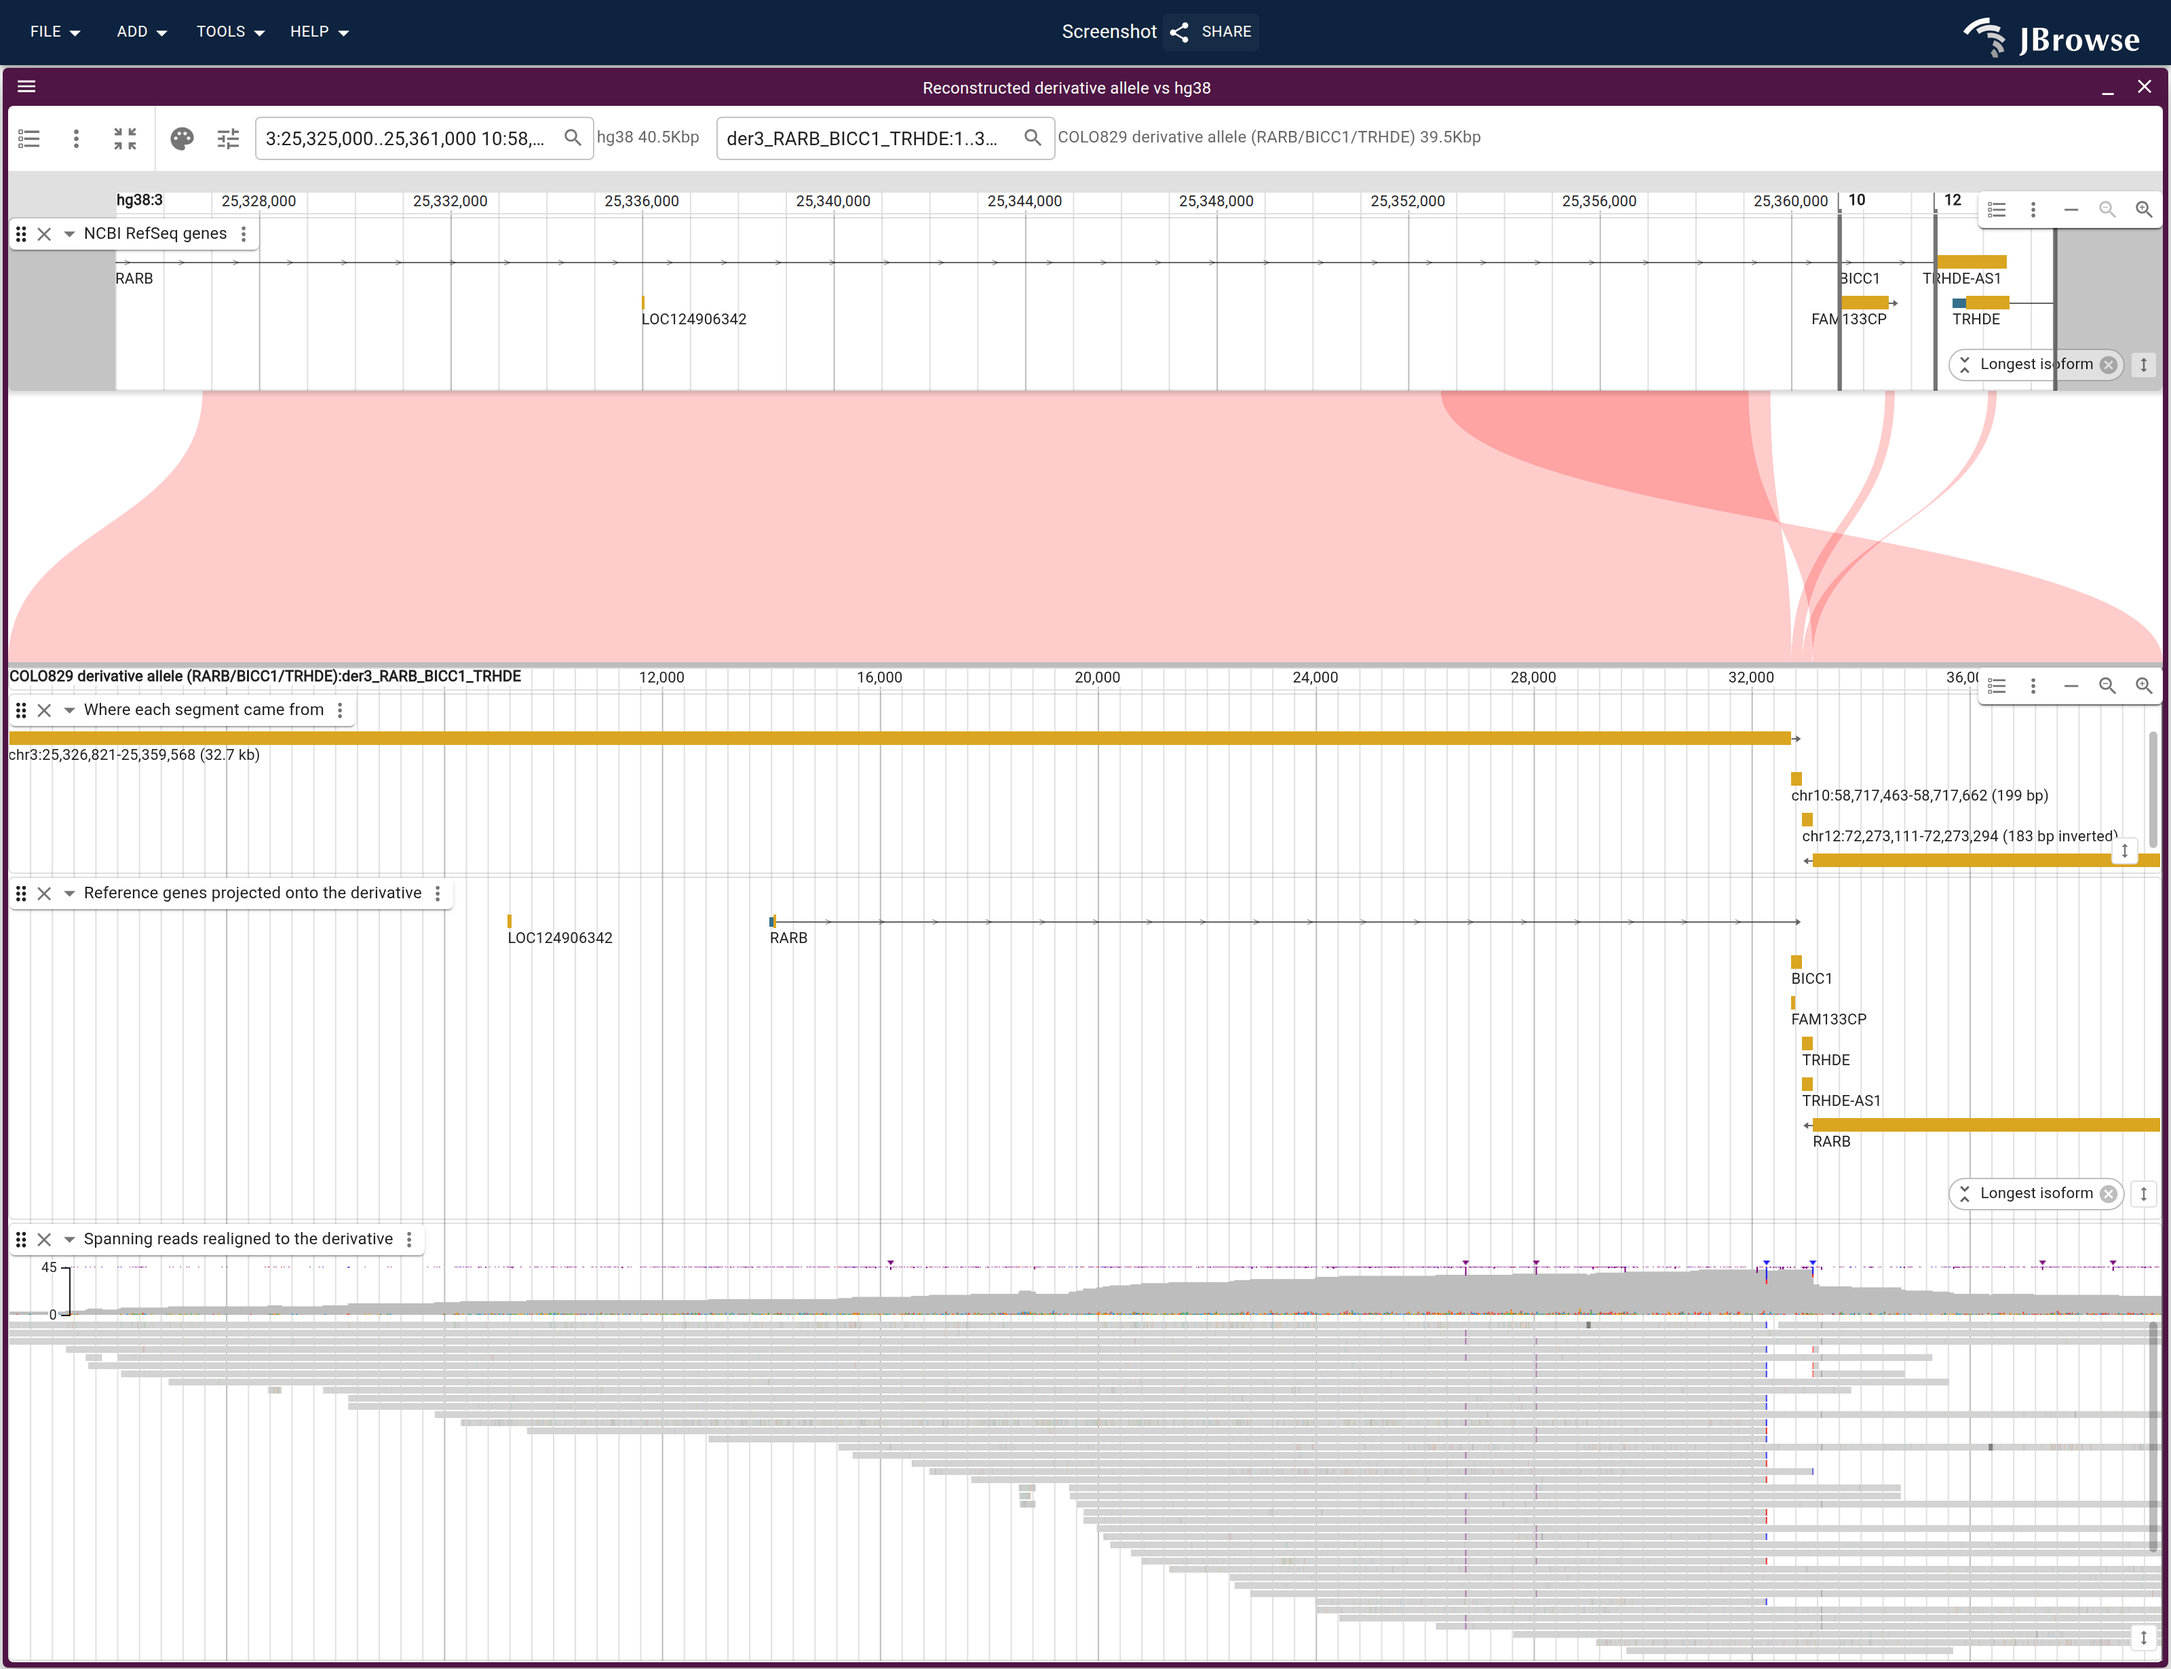
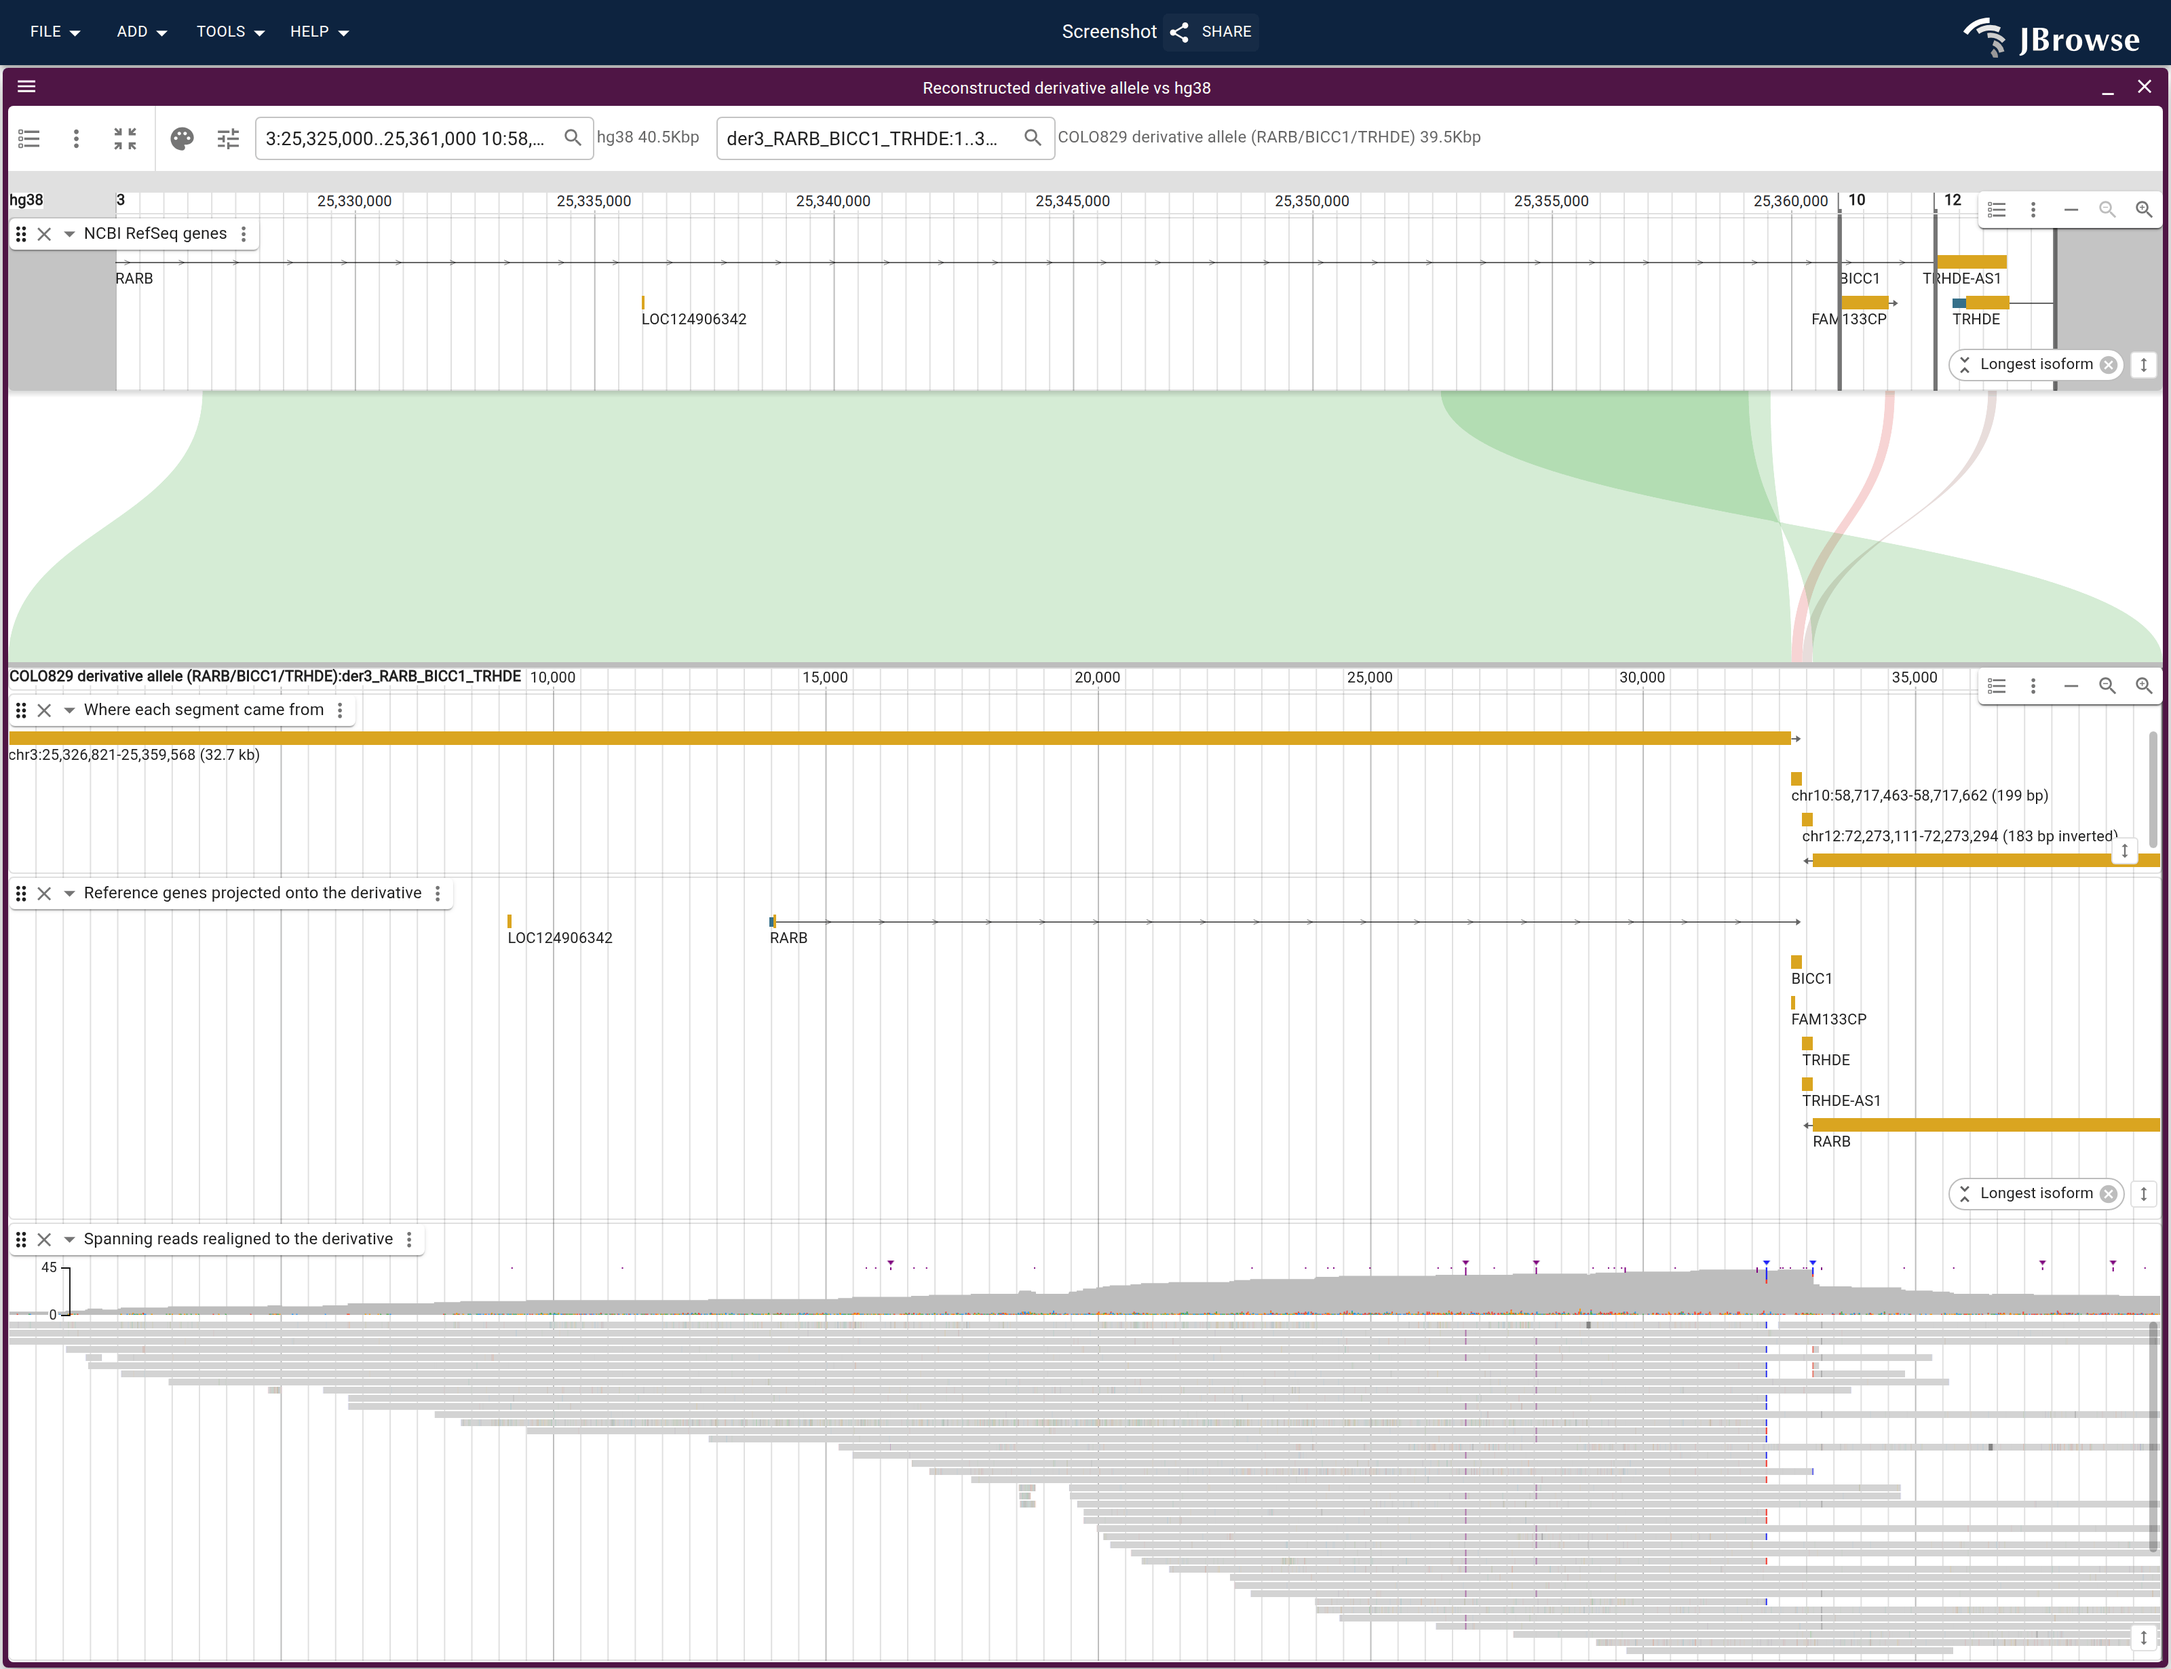
docs(cancer_sv): colour the derivative's ribbons by the chromosome they came from
"good figure, any other ways to make this even more compelling?"

Every ribbon drew in the same default pink, so a composition of three reference
loci read as one wedge with the two templated inserts as slivers of the same
thing. `colorBy: 'reference'` keys the colour on the anchor assembly's own
refName order — hg38, the topmost of the two rows — so the chr3 arm, the chr10
insert and the chr12 insert each get their own, and the ribbons say what the
"Where each segment came from" lane below says in words.

Only this figure: its zoomed sibling draws the same ribbons across three narrow
windows where each fills its own panel, so the flat colour costs nothing there
and it is a figure review already passed.

Also answers the "we had a 'two hop' situation" question where the one-hop route
is taught: a BND record names exactly one partner, so chaining records would
mean assuming two junctions sharing a locus sit on the same molecule — which the
caller does not assert and the reads do. The multi-hop route is the
reconstruction dialog, not a second walker over the VCF.

diff --git a/website/scripts/specs/cancer_sv.ts b/website/scripts/specs/cancer_sv.ts
@@ -704,6 +704,20 @@ export const cancerSvSpecs: ScreenshotSpec[] = [
           ],
           tracks: [['der3_vs_hg38']],
           drawCurves: true,
+          // A COLOUR PER SOURCE CHROMOSOME (reviewer: any other ways to make
+          // this more compelling). Every ribbon drew in the same default pink,
+          // so a composition of three reference loci read as one wedge and the
+          // two templated inserts as slivers of the same thing. 'reference'
+          // keys the colour on the anchor assembly's refNames — hg38 here, the
+          // topmost of the two rows — so chr3, chr10 and chr12 each get their
+          // own, and the ribbons say what the 'Where each segment came from'
+          // lane below says in words.
+          //
+          // Only this figure. Its zoomed sibling (derivative_inserts) draws the
+          // same four ribbons across three narrow windows, where each fills its
+          // own panel — the flat colour costs nothing there, and it is a figure
+          // review already passed.
+          colorBy: 'reference',
           levelHeights: [200],
         },
       ],

diff --git a/website/docs/tutorials/cancer_sv.md b/website/docs/tutorials/cancer_sv.md
@@ -135,6 +135,13 @@ stacked panels or one row spanning both breakends, then for the window each
 panel opens at. The panels it builds are the two loci the record's own ALT
 names, with the tracks from the launching view copied onto both.
 
+Two loci is all a record can give: a BND names one partner, so this route opens
+one hop of a chain however many hops it has. Chaining records to reach the rest
+would mean assuming that two junctions sharing a locus sit on the same molecule,
+which is the thing a caller does not assert and the reads do — so the multi-hop
+route is the reconstruction dialog above rather than a second walker over the
+VCF.
+
 <Figure caption="Opening the split view from the record rather than the import form. Right-click the breakend, choose Open breakpoint split view, pick the stacked shape, and set the window each panel opens at. The result is the chr3 and chr10 loci this record names, with the reads that cross the junction drawn as connectors between the two pileups." src="/img/cancer_sv/split_view_from_breakend.png" />
 
 For one read rather than the pileup, right-click a read and choose **Linear read
@@ -289,7 +296,7 @@ This allele carries RARB's first coding exon and its start codon, then the 183
 bp of chr12 that the second junction splices in, which is TRHDE coding sequence
 in reverse, then RARB again inverted.
 
-<Figure caption="The reconstructed derivative against its three source loci: RefSeq genes on the reference row, the same annotation projected onto the allele on the derivative row, with each segment labelled with the interval it came from. RARB's transcript starts partway along the allele and is cut off at the first junction. The wide ribbon is the chr3 arm; the crossing ribbon at right is chr3 returning inverted." src="/img/cancer_sv/derivative_synteny.png" />
+<Figure caption="The reconstructed derivative against its three source loci: RefSeq genes on the reference row, the same annotation projected onto the allele on the derivative row, with each segment labelled with the interval it came from. RARB's transcript starts partway along the allele and is cut off at the first junction. Ribbons are colored by the reference chromosome they come from, so the wide green one is the chr3 arm and the crossing ribbons at right are the chr10 and chr12 inserts with chr3 returning inverted." src="/img/cancer_sv/derivative_synteny.png" />
 
 ## Checking the reconstruction
 
